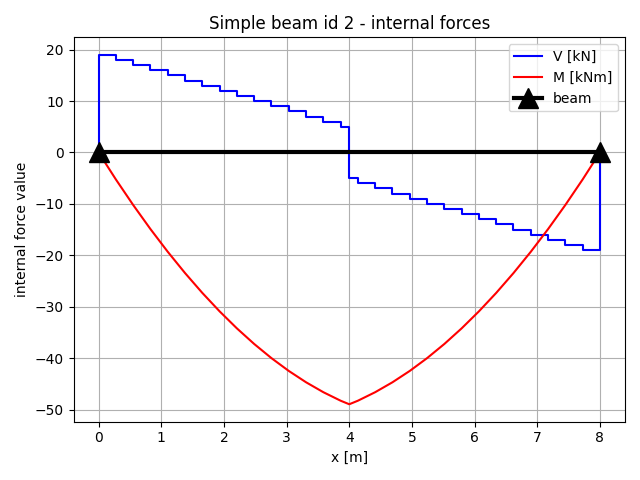
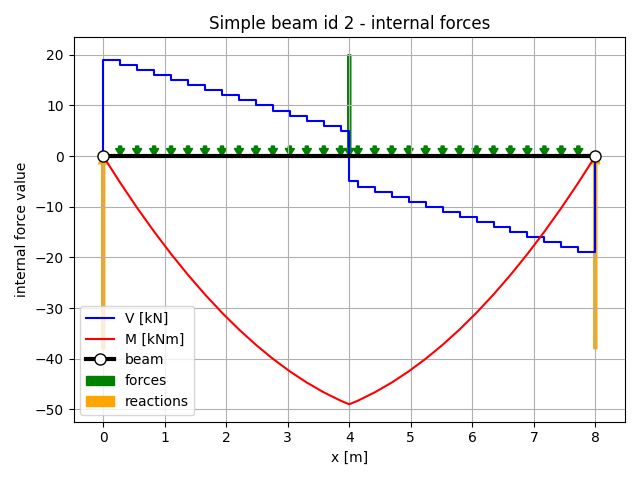
feat: simple beam - forces

diff --git a/examples/simple_beam.py b/examples/simple_beam.py
@@ -91,7 +91,18 @@ class Beam():
         plt.title(f"Simple beam {self.name} - internal forces")
         plt.plot(self.internal_V[0], self.internal_V[1], color="blue", label="V [kN]")
         plt.plot(self.internal_M[0], self.internal_M[1], color="red", label="M [kNm]")
-        plt.plot([0, self.length], [0, 0], color="black", label="beam", linewidth=3, marker="^", markersize=15)
+        plt.plot([0, self.length], [0, 0], color="black", label="beam", linewidth=3, marker="o", markersize=8, markerfacecolor="white")
+
+        def add_arrow(x, arrow_size, color, label=""):
+            plt.arrow(x, -arrow_size, 0, arrow_size, color=color, width=0.05, head_length=1.5, length_includes_head=True, label=label)
+
+        arr_scale = 2.0
+        for i, (x, mag) in enumerate(self.forces.items()):
+            add_arrow(x, mag * arr_scale, "green", "forces" if i == 0 else "")
+        R1, R2 = self.calculate_reactions()
+        add_arrow(0, R1 * arr_scale, "orange", "reactions")
+        add_arrow(self.length, R2 * arr_scale, "orange")
+
         plt.xlabel("x [m]")
         plt.ylabel("internal force value")
         plt.legend()
